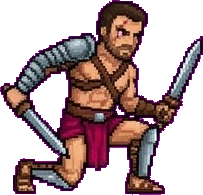
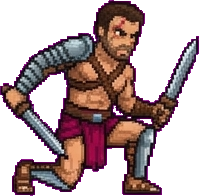
Espártaco: sprites corrigidos (manica em todas as poses), respira/recupera/esquiva próprios
Claude-Session: https://claude.ai/code/session_014cxhL1KZjwY3JzAHaAn4K1

Changed region(s): [[0.0, 0.0308, 1.0, 1.0], [0.5126, 0.0, 0.603, 0.0308], [0.6633, 0.0, 0.6935, 0.0308]]

diff --git a/src/art/sprites.ts b/src/art/sprites.ts
@@ -22,19 +22,20 @@ export interface ConjuntoSprites {
 
 export const SPRITES_CLASSE: Partial<Record<string, ConjuntoSprites>> = {
   dimachaerus: {
-    alturaGuarda: 231,
+    alturaGuarda: 232,
     quadros: {
-      guarda: { arquivo: 'assets/gladiadores/dimachaerus/guarda.png', w: 173, h: 231, ax: 72.8, ay: 230.0 },
-      prepara: { arquivo: 'assets/gladiadores/dimachaerus/prepara.png', w: 166, h: 248, ax: 80.8, ay: 247.0 },
-      impacto: { arquivo: 'assets/gladiadores/dimachaerus/impacto.png', w: 229, h: 224, ax: 77.0, ay: 223.0 },
-      recupera: { arquivo: 'assets/gladiadores/dimachaerus/recupera.png', w: 203, h: 222, ax: 80.7, ay: 221.0 },
-      alt: { arquivo: 'assets/gladiadores/dimachaerus/alt.png', w: 159, h: 247, ax: 78.1, ay: 246.0 },
-      defende: { arquivo: 'assets/gladiadores/dimachaerus/defende.png', w: 181, h: 231, ax: 68.2, ay: 230.0 },
-      dano: { arquivo: 'assets/gladiadores/dimachaerus/dano.png', w: 180, h: 203, ax: 76.4, ay: 202.0 },
-      critico: { arquivo: 'assets/gladiadores/dimachaerus/critico.png', w: 242, h: 244, ax: 96.2, ay: 243.0 },
-      cai: { arquivo: 'assets/gladiadores/dimachaerus/cai.png', w: 203, h: 195, ax: 101.5, ay: 194.0 },
-      morto: { arquivo: 'assets/gladiadores/dimachaerus/morto.png', w: 250, h: 99, ax: 125.0, ay: 98.0 },
-      respira: { arquivo: 'assets/gladiadores/dimachaerus/respira.png', w: 173, h: 224, ax: 72.8, ay: 223.0 },
+      guarda: { arquivo: 'assets/gladiadores/dimachaerus/guarda.png', w: 169, h: 232, ax: 70.5, ay: 231.0 },
+      respira: { arquivo: 'assets/gladiadores/dimachaerus/respira.png', w: 170, h: 232, ax: 66.6, ay: 231.0 },
+      prepara: { arquivo: 'assets/gladiadores/dimachaerus/prepara.png', w: 163, h: 248, ax: 82.9, ay: 247.0 },
+      impacto: { arquivo: 'assets/gladiadores/dimachaerus/impacto.png', w: 224, h: 224, ax: 76.9, ay: 223.0 },
+      recupera: { arquivo: 'assets/gladiadores/dimachaerus/recupera.png', w: 173, h: 232, ax: 79.6, ay: 231.0 },
+      alt: { arquivo: 'assets/gladiadores/dimachaerus/alt.png', w: 155, h: 247, ax: 76.4, ay: 246.0 },
+      defende: { arquivo: 'assets/gladiadores/dimachaerus/defende.png', w: 176, h: 232, ax: 66.1, ay: 231.0 },
+      esquiva: { arquivo: 'assets/gladiadores/dimachaerus/esquiva.png', w: 170, h: 232, ax: 81.1, ay: 231.0 },
+      dano: { arquivo: 'assets/gladiadores/dimachaerus/dano.png', w: 176, h: 203, ax: 75.0, ay: 202.0 },
+      critico: { arquivo: 'assets/gladiadores/dimachaerus/critico.png', w: 236, h: 244, ax: 94.1, ay: 243.0 },
+      cai: { arquivo: 'assets/gladiadores/dimachaerus/cai.png', w: 199, h: 196, ax: 99.5, ay: 195.0 },
+      morto: { arquivo: 'assets/gladiadores/dimachaerus/morto.png', w: 244, h: 98, ax: 122.0, ay: 97.0 },
     },
   },
   murmilo: {
